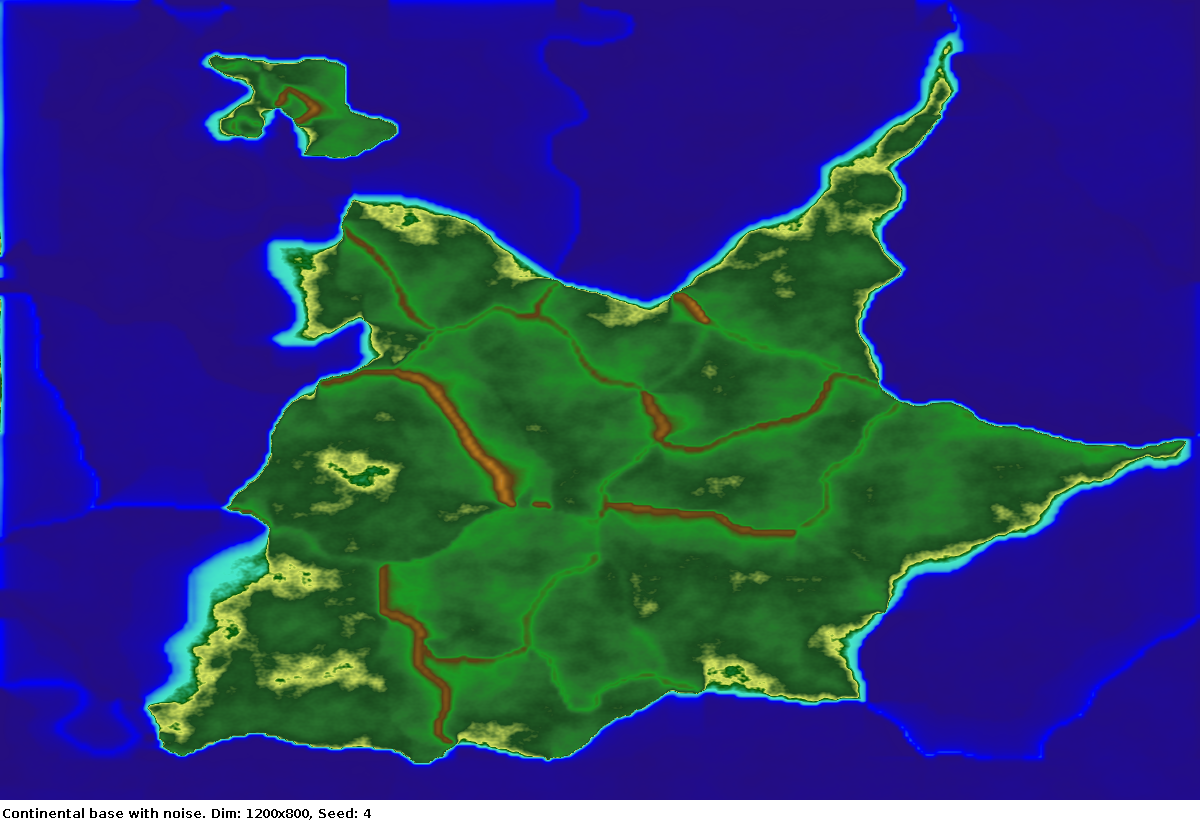
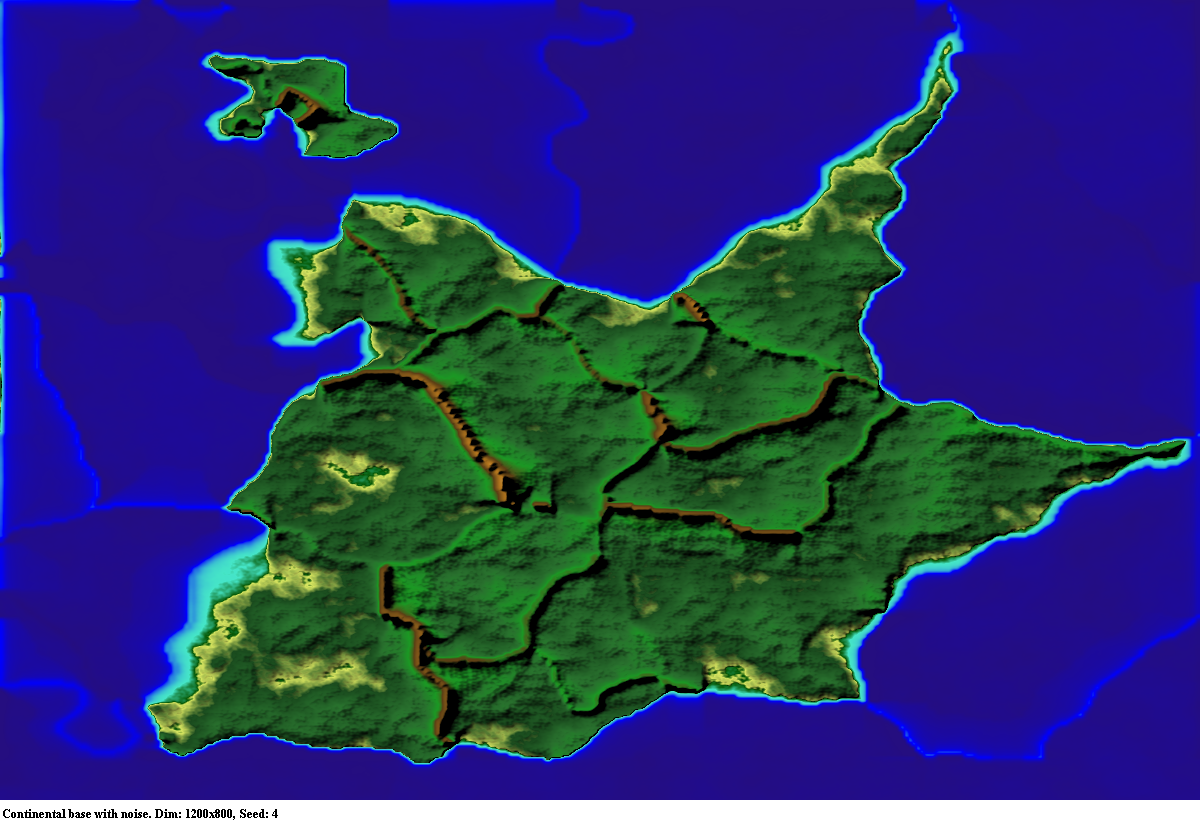
working on erosion

diff --git a/lib/worldgen/erosion.rb b/lib/worldgen/erosion.rb
@@ -36,6 +36,69 @@ $solubility = 0.00001
 $evaporation = 0.99
 $capacity = 0.02
 
+class Particle
+	attr_reader :mass
+	attr_reader :pos
+
+	def initialize(pos)
+		@pos = pos
+		@speed = 1.0
+		@mass  = 0.01
+	end
+
+	def move(w,h,map)
+		my_alt = map[@pos[1]][@pos[0]]
+		arounds = []
+		each_around(@pos) do |ax,ay|
+			if ax>=0 and ay>=0 and ax<w and ay<h
+				alt = map[ay][ax]
+				arounds << [ax,ay,alt]
+			end
+		end
+		arounds = arounds.select {|a| a[2]<my_alt}
+		dest_alt = nil
+		if arounds.count > 0
+			arounds = arounds.sort_by{ |a| a[2] }
+			dest = [arounds.first[0],arounds.first[1]]
+			dest_alt = arounds.first[2]
+			diff_alt = my_alt-arounds.first[2]
+			instantaneous_speed = Math.log(diff_alt,10)
+			@speed = (@speed*4+instantaneous_speed*1)/5.0
+			if @speed > 1.5
+				erosion = 10.0
+				map[dest[1]][dest[0]] -= erosion
+				#puts "removing #{erosion} at #{dest[1]},#{dest[0]}"
+				@mass += erosion
+			end
+			@pos = dest
+		end
+		dest_alt and dest_alt>=0.0 
+	end
+end
+
+def particles_erosion(w,h,map,n_particles)
+	r = Rectangle.new w,h
+	rs = Random.new 1
+	n_particles.times do |i|
+		puts "particles #{i}" if i%1000==0
+		# random starting point
+		pos = nil
+		while not pos or map[pos[1]][pos[0]]<0.0
+			pos = r.random_point(rs)
+		end
+		particle = Particle.new pos
+		while particle.move(w,h,map)
+			# if speed high remove
+		end
+		x,y = particle.pos
+		#alt = map[y][x]
+		deposit = particle.mass
+		map[y][x]+=deposit
+		#puts "deposit #{deposit} at #{x},#{y}"
+		# deposit at last position
+	end
+end
+
 def erosion_cycle(w,h,map,sediment_map,water_map)
 	difference_map = build_fixed_map(w,h)
 	water_map_diff = build_fixed_map(w,h) 

diff --git a/lib/worldgen/generators/erosion_generator.rb b/lib/worldgen/generators/erosion_generator.rb
@@ -8,9 +8,9 @@ require 'worldgen/erosion'
 include WorldGen
 
 def perform_erosion(w,h,map,seed)
-	w = 200
-	h = 200
-	map = rescale(map,1200,800,w,h)
+	w = 1200
+	h = 800
+	#map = rescale(map,1200,800,w,h)
 	colors = Colors.new
 	draw_code = Proc.new do |x,y|
 		color = colors.get(map[y][x])
@@ -20,20 +20,21 @@ def perform_erosion(w,h,map,seed)
 	mf = MapFrame.new("Erosion: initial, seed #{seed}", w, h, draw_code)
 	mf.launch
 
-	erosion(w,h,map,50)
+	#erosion(w,h,map,50)
+	particles_erosion(w,h,map,5000000)
 	
 	mf = MapFrame.new("Erosion: 50 steps, seed #{seed}", w, h, draw_code)
 	mf.launch
 
-	erosion(w,h,map,50)
+	# particles_erosion(w,h,map,500000)
 	
-	mf = MapFrame.new("Erosion: 100 steps, seed #{seed}", w, h, draw_code)
-	mf.launch
+	# mf = MapFrame.new("Erosion: 100 steps, seed #{seed}", w, h, draw_code)
+	# mf.launch
 
-	erosion(w,h,map,100)
+	# particles_erosion(w,h,map,1000000)
 	
-	mf = MapFrame.new("Erosion: 200 steps, seed #{seed}", w, h, draw_code)
-	mf.launch
+	# mf = MapFrame.new("Erosion: 200 steps, seed #{seed}", w, h, draw_code)
+	# mf.launch
 end
 
 (1..1).each do |seed| 

diff --git a/lib/worldgen/visualizations/continents_image_generator.rb b/lib/worldgen/visualizations/continents_image_generator.rb
@@ -12,7 +12,8 @@ def generate_continents_image(width,height,map,path,desc)
 		colors = Colors.new
 		save_image(width,height,path,desc) do |x,y|
 			alt = map[y][x]		
-			colors.get alt
+			color = colors.get alt
+			color = shadow_color(map,color,x,y)
 		end
 	rescue Exception => e
 		puts "Problem with continents #{desc}: #{e}"
